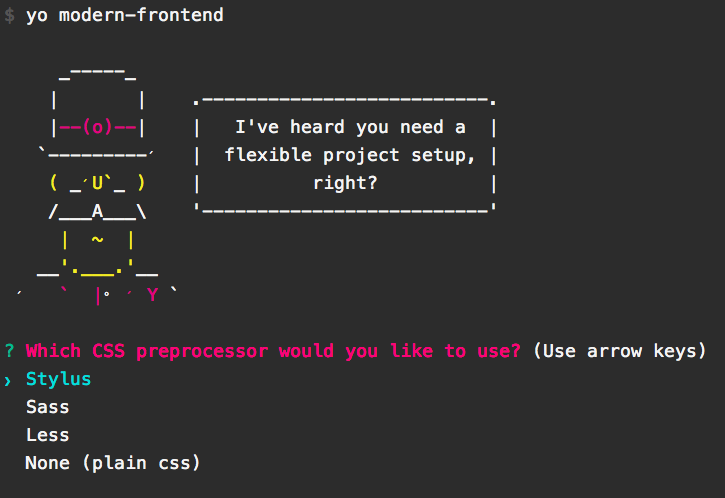
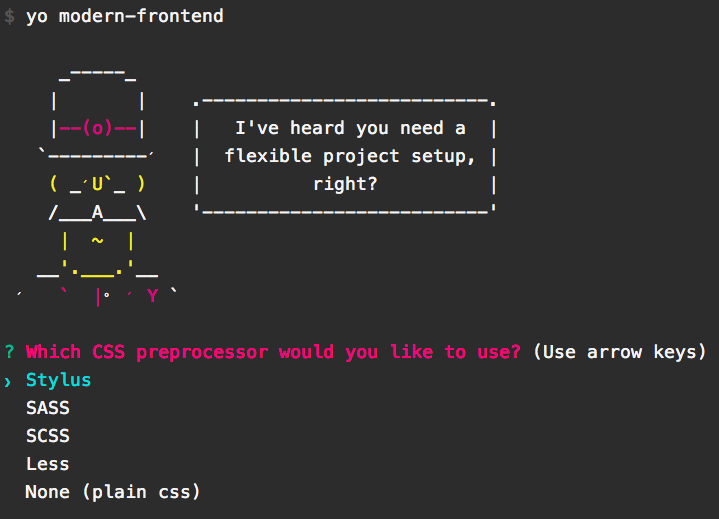
add SASS/SCSS alternatives. fix sass dependency. bump v0.2.0

diff --git a/app/templates/gulpfile.js b/app/templates/gulpfile.js
@@ -14,7 +14,7 @@ var browserify = require('browserify');
 
 gulp.task('stylesheet', ['sprites'], function () {
   return gulp.src('app/css/main<%= cssExtension %>')
-    .pipe($.sourcemaps.init())<% if (cssPreprocessor == "sass") { %>
+    .pipe($.sourcemaps.init())<% if (cssPreprocessor == "sass" || cssPreprocessor == "scss") { %>
     .pipe($.sass({
       outputStyle: 'nested', // libsass doesn't support expanded yet
       precision: 10,

diff --git a/app/index.js b/app/index.js
@@ -32,8 +32,11 @@ module.exports = yeoman.generators.Base.extend({
         value: 'stylus',
         checked: true
       }, {
-        name: 'Sass',
+        name: 'SASS',
         value: 'sass'
+      }, {
+        name: 'SCSS',
+        value: 'scss'
       }, {
         name: 'Less',
         value: 'less'
